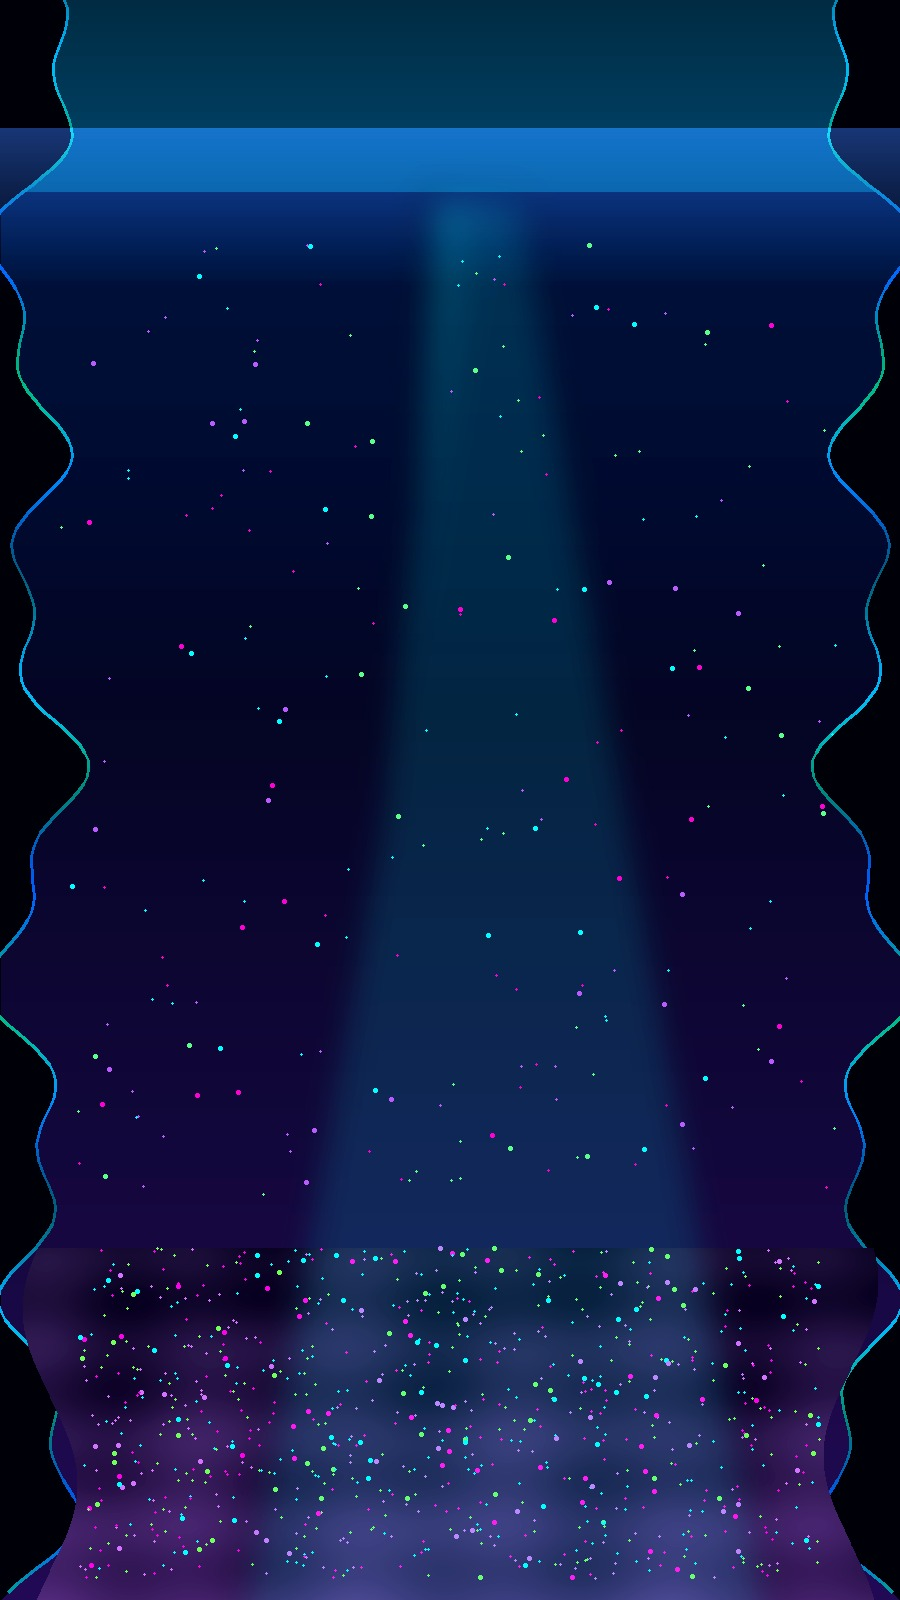
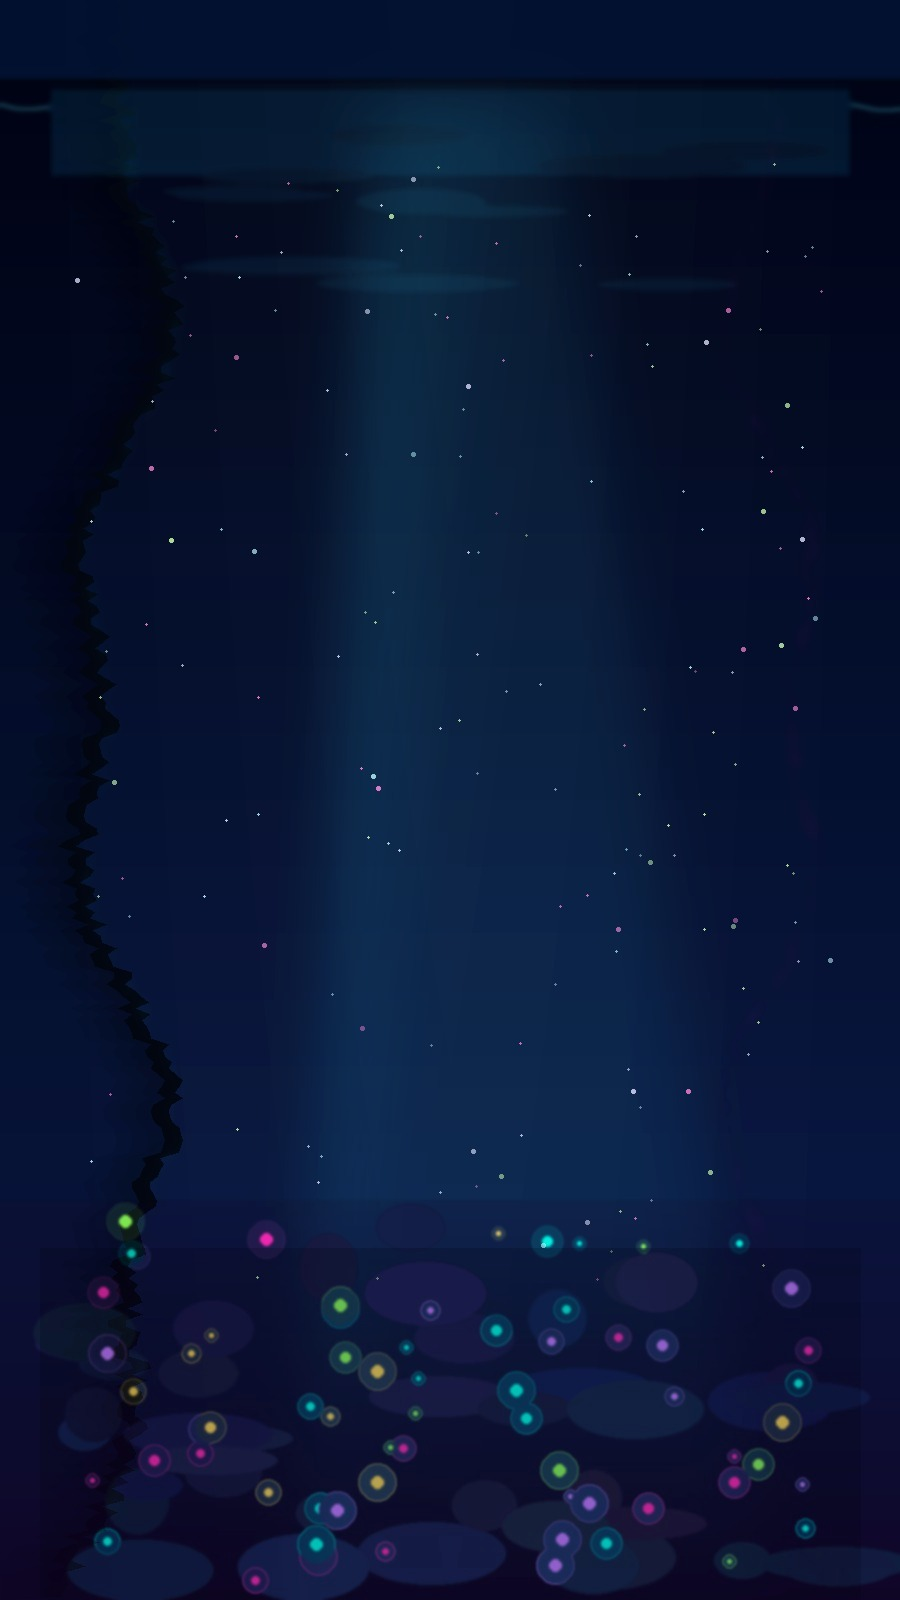
v29 neon-bio LIVE v2: species PNG scale, painterly bed, dropdown in 375, Divide HUD
Fix acceptance blockers: per-species neon sprites at game scale (sp.num→PNG),
skip cheap shore/bubbles for neon, rebuild neon_pond_bg cavern/rays/bed,
Pond style fully inside 375 viewport, Divide/Energy bottom-left like classic.

diff --git a/.04-Src/js/theme_neon_draw.js b/.04-Src/js/theme_neon_draw.js
@@ -1,4 +1,4 @@
-/* theme_neon_draw.js — neon-bio organisms: bright contour + species PNG. ≤500L */
+/* theme_neon_draw.js — neon-bio organisms: species PNG + contour glow. ≤500L */
 (function (w) {
   "use strict";
   var CACHE = {};
@@ -22,10 +22,12 @@
     if (!o || !o.sp) return null;
     if (typeof o.sp.i === "number") return o.sp.i;
     if (typeof o.sp.idx === "number") return o.sp.idx;
+    /* species PNG files are 000-based array index; sp.num is 1-based */
+    if (typeof o.sp.num === "number") return Math.max(0, o.sp.num - 1);
     try {
       if (typeof SPECIES_DB !== "undefined" && o.sp.name) {
         for (var i = 0; i < SPECIES_DB.length; i++) {
-          if (SPECIES_DB[i] && SPECIES_DB[i].name === o.sp.name) return (SPECIES_DB[i].i != null ? SPECIES_DB[i].i : i);
+          if (SPECIES_DB[i] && SPECIES_DB[i].name === o.sp.name) return i;
         }
       }
     } catch (e2) {}
@@ -46,72 +48,72 @@
     } catch (e3) {}
     return null;
   }
+  function neonDrawSz(sz) {
+    /* Readable game scale (cilia/nucleus visible) without half-screen giants */
+    if (w.demoMode) return Math.max(18, Math.min(34, (sz || 4) * 5));
+    return Math.max(5.5, Math.min(26, (sz || 4) * 2.6));
+  }
   function bake(shape, color, px) {
-    var key = shape + "|" + color + "|" + px + "|v3";
+    var key = shape + "|" + color + "|" + px + "|v4";
     if (CACHE[key]) return CACHE[key];
     var c = document.createElement("canvas");
-    c.width = c.height = px;
+    c.width = px; c.height = px;
     var g = c.getContext("2d");
-    var cx = px / 2, cy = px / 2, s = px * 0.34;
-    function strokeContour(drawFn, w0) {
+    var cx = px / 2, cy = px / 2, s = px * 0.28;
+    function faintFill(pathFn) {
       g.save();
-      g.shadowColor = color; g.shadowBlur = 8; g.globalAlpha = 0.65;
-      g.strokeStyle = color; g.lineWidth = (w0 || 2) + 2.4;
-      g.beginPath(); drawFn(); g.stroke();
-      g.shadowBlur = 4; g.globalAlpha = 1;
-      g.strokeStyle = color; g.lineWidth = (w0 || 2) + 0.6;
-      g.beginPath(); drawFn(); g.stroke();
-      g.shadowColor = "#fff"; g.shadowBlur = 4; g.globalAlpha = 0.95;
-      g.strokeStyle = "#fff"; g.lineWidth = Math.max(1.2, (w0 || 2) * 0.55);
-      g.beginPath(); drawFn(); g.stroke();
+      g.globalAlpha = 0.38;
+      g.fillStyle = color;
+      g.beginPath(); pathFn(); g.fill();
       g.restore();
     }
-    function faintFill(drawFn) {
-      g.save(); g.globalAlpha = 0.32; g.fillStyle = color;
-      g.shadowColor = color; g.shadowBlur = 12;
-      g.beginPath(); drawFn(); g.fill(); g.restore();
+    function strokeContour(pathFn, lw) {
+      g.save();
+      g.strokeStyle = color; g.shadowColor = color; g.shadowBlur = Math.max(6, px * 0.08);
+      g.lineWidth = lw || 2.2; g.lineJoin = "round"; g.lineCap = "round";
+      g.beginPath(); pathFn(); g.stroke();
+      g.shadowBlur = 0; g.strokeStyle = "#fff"; g.globalAlpha = 0.85; g.lineWidth = Math.max(1, (lw || 2.2) * 0.45);
+      g.beginPath(); pathFn(); g.stroke();
+      g.restore();
     }
-    if (shape === "rod" || shape === "filament" || shape === "clubrod" || shape === "trichormus" || shape === "rodtococcus") {
-      var rw = s * (shape === "filament" ? 0.2 : 0.32), rh = s * 1.15;
-      var path = function () { g.ellipse(cx, cy, rw, rh, 0, 0, Math.PI * 2); };
-      faintFill(path); strokeContour(path, 2.4);
-    } else if (shape === "spiral" || shape === "trypanosoma" || shape === "comma" || shape === "apicomplexa") {
-      var pathS = function () {
-        var n = shape === "comma" ? 28 : 60, amp = shape === "comma" ? 0.55 : 1;
-        for (var i = 0; i < n; i++) {
-          var t = i / 9, rr = 3 + i * 1.05 * amp;
-          var x = cx + Math.cos(t) * rr, y = cy + Math.sin(t) * rr * 0.85;
-          if (i === 0) g.moveTo(x, y); else g.lineTo(x, y);
-        }
-      };
-      strokeContour(pathS, 2.6);
-    } else if (shape === "colony" || shape === "star" || shape === "volvox") {
-      var n = shape === "star" ? 5 : 7;
-      for (var i = 0; i < n; i++) {
-        var ang = (i / n) * Math.PI * 2;
-        var x = cx + Math.cos(ang) * s * 0.55, y = cy + Math.sin(ang) * s * 0.55;
-        (function (xx, yy) {
-          var p = function () { g.arc(xx, yy, s * 0.2, 0, Math.PI * 2); };
-          faintFill(p); strokeContour(p, 1.7);
-        })(x, y);
+    function nucleus() {
+      g.save(); g.fillStyle = "#fff"; g.globalAlpha = 0.92; g.shadowBlur = 0;
+      g.beginPath(); g.arc(cx - s * 0.18, cy - s * 0.08, s * 0.11, 0, Math.PI * 2); g.fill();
+      g.beginPath(); g.arc(cx + s * 0.22, cy + s * 0.14, s * 0.08, 0, Math.PI * 2); g.fill();
+      g.restore();
+    }
+    function cilia(rx, ry, n) {
+      g.save(); g.strokeStyle = color; g.globalAlpha = 0.9; g.lineWidth = Math.max(1, px * 0.012);
+      g.shadowColor = color; g.shadowBlur = 4;
+      for (var a = 0; a < Math.PI * 2; a += (Math.PI * 2) / n) {
+        g.beginPath();
+        g.moveTo(cx + Math.cos(a) * rx, cy + Math.sin(a) * ry);
+        g.lineTo(cx + Math.cos(a) * rx * 1.38, cy + Math.sin(a) * ry * 1.38);
+        g.stroke();
       }
-      var pc = function () { g.arc(cx, cy, s * 0.26, 0, Math.PI * 2); };
-      faintFill(pc); strokeContour(pc, 2.1);
-    } else if (shape === "slipper" || shape === "hypotrich" || shape === "oval" || shape === "bell" || shape === "rotifer" || shape === "testate" || shape === "testate2" || shape === "flatworm") {
-      var rx = s * (shape === "slipper" || shape === "hypotrich" ? 1.05 : 0.85);
-      var ry = s * (shape === "slipper" || shape === "hypotrich" ? 0.45 : 0.65);
-      var po = function () { g.ellipse(cx, cy, rx, ry, 0, 0, Math.PI * 2); };
-      faintFill(po); strokeContour(po, 2.3);
-      if (shape === "slipper" || shape === "hypotrich" || shape === "rotifer") {
-        g.save(); g.strokeStyle = color; g.globalAlpha = 0.9; g.lineWidth = 1.4; g.shadowColor = color; g.shadowBlur = 6;
-        for (var a = -0.7; a <= 0.7; a += 0.2) {
-          g.beginPath();
-          g.moveTo(cx + rx * 0.85, cy + Math.sin(a) * ry);
-          g.lineTo(cx + rx * 1.35, cy + Math.sin(a) * ry * 1.35);
-          g.stroke();
-        }
-        g.restore();
+      g.restore();
+    }
+    if (shape === "rod" || shape === "bacillus" || shape === "filament" || shape === "clubrod" || shape === "trichormus") {
+      var rr = function () { g.ellipse(cx, cy, s * 1.15, s * 0.42, 0, 0, Math.PI * 2); };
+      faintFill(rr); strokeContour(rr, 2.2); nucleus();
+      g.save(); g.strokeStyle = color; g.globalAlpha = 0.85; g.lineWidth = 1.3; g.shadowColor = color; g.shadowBlur = 4;
+      for (var i = 0; i < 8; i++) {
+        var yy = cy - s * 0.35 + (i / 7) * s * 0.7;
+        g.beginPath(); g.moveTo(cx - s * 1.15, yy); g.lineTo(cx - s * 1.45, yy); g.stroke();
+        g.beginPath(); g.moveTo(cx + s * 1.15, yy); g.lineTo(cx + s * 1.45, yy); g.stroke();
       }
+      g.restore();
+    } else if (shape === "spiral" || shape === "spirillum" || shape === "comma" || shape === "vibrio") {
+      g.save(); g.strokeStyle = color; g.shadowColor = color; g.shadowBlur = 8; g.lineWidth = 3.2; g.lineCap = "round";
+      g.beginPath();
+      for (var t = 0; t <= 1.001; t += 0.02) {
+        var xx = cx + (t - 0.5) * s * 2.2;
+        var yy = cy + Math.sin(t * Math.PI * 3) * s * 0.45;
+        if (t === 0) g.moveTo(xx, yy); else g.lineTo(xx, yy);
+      }
+      g.stroke(); g.restore();
+      faintFill(function () { g.ellipse(cx, cy, s * 0.9, s * 0.35, 0, 0, Math.PI * 2); });
+      nucleus();
     } else if (shape === "phage") {
       var ph = function () { g.ellipse(cx, cy - s * 0.35, s * 0.45, s * 0.35, 0, 0, Math.PI * 2); };
       faintFill(ph); strokeContour(ph, 2.2);
@@ -121,37 +123,52 @@
     } else if (shape === "diplococci") {
       var p1 = function () { g.arc(cx - s * 0.4, cy, s * 0.4, 0, Math.PI * 2); };
       var p2 = function () { g.arc(cx + s * 0.4, cy, s * 0.4, 0, Math.PI * 2); };
-      faintFill(p1); strokeContour(p1, 2.1); faintFill(p2); strokeContour(p2, 2.1);
+      faintFill(p1); strokeContour(p1, 2.1); faintFill(p2); strokeContour(p2, 2.1); nucleus();
     } else {
-      var pc0 = function () { g.arc(cx, cy, s * 0.7, 0, Math.PI * 2); };
-      faintFill(pc0); strokeContour(pc0, 2.5);
-      g.save(); g.strokeStyle = color; g.globalAlpha = 0.85; g.lineWidth = 1.4; g.shadowColor = color; g.shadowBlur = 5;
-      for (var a2 = 0; a2 < Math.PI * 2; a2 += Math.PI / 10) {
-        g.beginPath();
-        g.moveTo(cx + Math.cos(a2) * s * 0.72, cy + Math.sin(a2) * s * 0.72);
-        g.lineTo(cx + Math.cos(a2) * s * 1.08, cy + Math.sin(a2) * s * 1.08);
-        g.stroke();
-      }
-      g.fillStyle = "#fff"; g.globalAlpha = 0.95; g.shadowBlur = 0;
-      g.beginPath(); g.arc(cx - s * 0.18, cy - s * 0.1, s * 0.09, 0, Math.PI * 2); g.fill();
-      g.beginPath(); g.arc(cx + s * 0.2, cy + s * 0.12, s * 0.08, 0, Math.PI * 2); g.fill();
-      g.restore();
+      var pc0 = function () { g.arc(cx, cy, s * 0.72, 0, Math.PI * 2); };
+      faintFill(pc0); strokeContour(pc0, 2.5); cilia(s * 0.74, s * 0.74, 16); nucleus();
     }
     CACHE[key] = c;
     if (Object.keys(CACHE).length > 64) { var k0 = Object.keys(CACHE)[0]; delete CACHE[k0]; }
     return c;
   }
   function drawNeonCell(c, o, sz) {
-    var ssz = sz || 4;
-    var scale = Math.max(ssz * 3.6, 7);
+    var drawSz = neonDrawSz(sz);
     var shape = shapeOf(o);
     var color = colOf(o);
-    var px = Math.max(48, Math.min(128, Math.round(ssz * 18)));
+    var idx = spIdx(o);
+    var sp = loadSp(idx);
+    if (sp && (sp.naturalWidth || sp.width) > 1) {
+      var iw = sp.naturalWidth || sp.width;
+      var ih = sp.naturalHeight || sp.height;
+      var aspect = iw / Math.max(1, ih);
+      var dw, dh;
+      if (aspect >= 1) { dw = drawSz; dh = drawSz / aspect; }
+      else { dh = drawSz; dw = drawSz * aspect; }
+      c.save();
+      c.globalCompositeOperation = "source-over";
+      c.globalAlpha = 1;
+      c.shadowColor = color;
+      c.shadowBlur = Math.max(4, drawSz * 0.55);
+      c.drawImage(sp, -dw / 2, -dh / 2, dw, dh);
+      c.shadowBlur = 0;
+      /* soft translucent tint so fill reads neon */
+      c.globalAlpha = 0.22;
+      c.fillStyle = color;
+      c.beginPath();
+      c.ellipse(0, 0, dw * 0.42, dh * 0.42, 0, 0, Math.PI * 2);
+      c.fill();
+      c.restore();
+      return;
+    }
+    var px = Math.max(48, Math.min(128, Math.round(drawSz * 10)));
     var spr = bake(shape, color, px);
     c.save();
     c.globalCompositeOperation = "source-over";
     c.globalAlpha = 1;
-    c.drawImage(spr, -scale, -scale, scale * 2, scale * 2);
+    c.shadowColor = color;
+    c.shadowBlur = Math.max(3, drawSz * 0.4);
+    c.drawImage(spr, -drawSz, -drawSz, drawSz * 2, drawSz * 2);
     c.restore();
   }
   var SPRITE_BASE = "assets/themes/neon-bio/sprites/";

diff --git a/.04-Src/js/theme_engine.js b/.04-Src/js/theme_engine.js
@@ -18,7 +18,7 @@
   function applyVars(el, vars) { if (!el || !vars) return; Object.keys(vars).forEach(function (k) { el.style.setProperty(k, vars[k]); }); }
   function syncShader(id) { var th = getTheme(id) || {}; w.__igsThemePondShader = th.shader || null; w.__igsThemePondId = id; var _dark={'neon-bio':0.2,'cyberpunk-scanner':0.28,'phase-contrast':0.55,'engraving':0.5,'haeckel-watercolor':0.75,'glass-lab':0.9,'classic':null}; w.__igsThemeDayLight=(_dark[id]!=null?_dark[id]:null); if (typeof w.igsThemeApplyWebGL === 'function') try { w.igsThemeApplyWebGL(th.shader || {}); } catch (e) {} }
   function applyThemeBestiary(id) { id = valid(id); var prev = lsGet(LS_B) || 'classic'; lsSet(LS_B, id); var wiki = document.getElementById('wikiO'); if (wiki) { wiki.setAttribute('data-theme-bestiary', id); applyVars(wiki, (getTheme(id) || {}).cssVars); } ['themeSelBestiary','themeSelBestiarySet'].forEach(function(sid){ var sel=document.getElementById(sid); if(sel&&sel.value!==id) sel.value=id; }); if (prev !== id && w.igsThemeAnalytics && w.igsThemeAnalytics.track) w.igsThemeAnalytics.track('theme_change', { screen: 'bestiary', from: prev, to: id }); w.__igsThemeBestiary = id; try{ if(typeof w.igsThemeWikiEnhance==='function') w.igsThemeWikiEnhance(); }catch(e){} return id; }
-  function applyThemePond(id) { id = valid(id); var prev = lsGet(LS_P) || 'classic'; lsSet(LS_P, id); document.documentElement.setAttribute('data-theme-pond', id); applyVars(document.documentElement, (getTheme(id) || {}).cssVars); if (document.body) document.body.setAttribute('data-theme-pond', id); syncShader(id); ['themeSelPond','themeSelPondSet'].forEach(function(sid){ var sel=document.getElementById(sid); if(sel&&sel.value!==id) sel.value=id; }); if (prev !== id && w.igsThemeAnalytics && w.igsThemeAnalytics.track) w.igsThemeAnalytics.track('theme_change', { screen: 'pond', from: prev, to: id }); w.__igsThemePond = id; try{ if(id==='neon-bio'){ if(typeof tZoom==='number'){ tZoom=Math.max(tZoom,5.5); } if(typeof zoom==='number'){ zoom=Math.max(zoom,5.5); } if(typeof settings!=='undefined'&&settings){ settings.renderMode='swiss'; window._swissStrict=true; } if(typeof cam!=='undefined'&&cam&&typeof PD==='number'){ if(cam.y<PD*0.28) cam.y=PD*0.42; } } }catch(_z){} return id; }
+  function applyThemePond(id) { id = valid(id); var prev = lsGet(LS_P) || 'classic'; lsSet(LS_P, id); document.documentElement.setAttribute('data-theme-pond', id); applyVars(document.documentElement, (getTheme(id) || {}).cssVars); if (document.body) document.body.setAttribute('data-theme-pond', id); syncShader(id); ['themeSelPond','themeSelPondSet'].forEach(function(sid){ var sel=document.getElementById(sid); if(sel&&sel.value!==id) sel.value=id; }); if (prev !== id && w.igsThemeAnalytics && w.igsThemeAnalytics.track) w.igsThemeAnalytics.track('theme_change', { screen: 'pond', from: prev, to: id }); w.__igsThemePond = id; try{ if(id==='neon-bio'){ if(typeof settings!=='undefined'&&settings){ settings.renderMode='swiss'; window._swissStrict=true; } if(typeof cam!=='undefined'&&cam&&typeof PD==='number'){ if(cam.y<PD*0.28) cam.y=PD*0.42; } if(typeof tZoom==='number'&&tZoom>3.2){ tZoom=2.4; } if(typeof zoom==='number'&&zoom>3.2){ zoom=2.4; } } }catch(_z){} return id; }
   function currentBestiary() { return valid(lsGet(LS_B) || pickAb('bestiary')); }
   function currentPond() { return valid(lsGet(LS_P) || pickAb('pond')); }
   function themeLabel(tid) { var th = getTheme(tid) || {}; var lab = (typeof tt === 'function' && th.labelKey) ? tt(th.labelKey) : ''; if (!lab || lab === th.labelKey) return LABELS[tid] || tid; return lab; }

diff --git a/.04-Src/js/theme_visuals.js b/.04-Src/js/theme_visuals.js
@@ -101,7 +101,6 @@
     themedSun.__igsThemeWrap = true;
     renderSunOverlay = themedSun;
   }
-
   function wrapPads() {
     if (typeof drawNaturalLilypads !== "function" || drawNaturalLilypads.__igsThemeWrap) return;
     var orig = drawNaturalLilypads;
@@ -213,7 +212,7 @@
     var W = cv.width, H = cv.height;
     ctx.save();
     if (id === "neon-bio") {
-      /* bed via wrapWater; postFX rays+vignette */
+      /* bed via wrapWater */
       var cx = W * 0.5, topY = H * 0.14, bot = H * 0.98;
       ctx.globalCompositeOperation = "screen";
       var ray = ctx.createLinearGradient(cx, topY, cx, bot);
@@ -228,7 +227,7 @@
       ctx.globalCompositeOperation = "source-over";
       var vig = ctx.createRadialGradient(W / 2, H * 0.55, H * 0.18, W / 2, H * 0.55, H * 0.92);
       vig.addColorStop(0, "rgba(0,0,0,0)");
-      vig.addColorStop(1, "rgba(0,0,0,0.55)");
+      vig.addColorStop(1, "rgba(0,0,0,0.38)");
       ctx.fillStyle = vig; ctx.fillRect(0, 0, W, H);
     } else if (id === "phase-contrast") {
       try { drawThemePondBed("phase-contrast","assets/themes/phase-contrast/phase_pond_bg.jpg",0.40); } catch (eBed) {}
@@ -357,18 +356,6 @@
           ctx.save(); ctx.setTransform(1,0,0,1,0,0);
           ctx.fillStyle = "#000014"; ctx.fillRect(0,0,cv.width,cv.height); ctx.restore();
         }
-        ctx.save();
-        var sh = ctx.createLinearGradient(0, -2, 0, 40);
-        sh.addColorStop(0, "rgba(0,255,255,0.28)");
-        sh.addColorStop(1, "rgba(0,40,80,0)");
-        ctx.fillStyle = sh; ctx.fillRect(vL, -6, vR-vL, 48);
-        ctx.strokeStyle = "rgba(120,255,255,0.6)"; ctx.lineWidth = 2;
-        ctx.beginPath();
-        for (var sx=vL; sx<=vR; sx+=8) {
-          var sy = Math.sin(sx*0.04+(typeof gt==="number"?gt:0)*1.2)*2.2;
-          if (sx===vL) ctx.moveTo(sx, sy); else ctx.lineTo(sx, sy);
-        }
-        ctx.stroke(); ctx.restore();
         return;
       }
       return orig.apply(this, arguments);
@@ -480,7 +467,7 @@
   }
   function install() {
     ensureNeonDraw();
-    wrapSky(); wrapSun(); wrapPads(); wrapSwiss(); wrapWater(); wrapBuildWiki();
+    wrapSky(); wrapSun(); wrapPads(); wrapSwiss(); wrapWater(); wrapShoreBubbles(); wrapBuildWiki();
     var id = tid();
     var dark = {"neon-bio":0.18,"cyberpunk-scanner":0.22,"phase-contrast":0.48,"engraving":0.55,"haeckel-watercolor":0.75,"glass-lab":0.9};
     if (dark[id] != null) w.__igsThemeDayLight = dark[id];
@@ -492,6 +479,19 @@
       } catch (eSw) {}
     }
   }
+
+  function wrapShoreBubbles() {
+    function skip(get, set) {
+      var fn = get(); if (typeof fn !== "function" || fn.__igsThemeWrap) return;
+      var orig = fn;
+      var wrapped = function () { if (tid() === "neon-bio") return; return orig.apply(this, arguments); };
+      wrapped.__igsThemeWrap = true; set(wrapped);
+    }
+    skip(function () { return typeof renderShore === "function" ? renderShore : null; }, function (f) { renderShore = f; });
+    skip(function () { return typeof renderBubbles === "function" ? renderBubbles : null; }, function (f) { renderBubbles = f; });
+    skip(function () { return typeof renderSediment === "function" ? renderSediment : null; }, function (f) { renderSediment = f; });
+  }
+
   w.igsThemeVisuals = { install: install, postFX: postFX, enhanceWiki: enhanceWiki };
   if (document.readyState === "loading") document.addEventListener("DOMContentLoaded", install);
   else install();

diff --git a/style-themes-v29.css b/style-themes-v29.css
@@ -12,11 +12,12 @@
 }
 body.in-menu #themePondBar{display:none!important}
 @media (max-width:500px){
-  /* top-right compact; must clear #hud (max ~200px) on 375 */
-  #themePondBar{right:8px;left:auto!important;top:max(6px,env(safe-area-inset-top));max-width:110px;padding:3px 5px}
+  /* fully inside 375: kill .theme-sel-wrap min-width:120 that blew select to 120px */
+  #themePondBar{right:18px;left:auto!important;top:max(6px,env(safe-area-inset-top));width:82px;max-width:82px;padding:3px 4px;box-sizing:border-box;overflow:hidden}
+  #themePondBar .theme-sel-wrap{min-width:0!important;width:100%!important;max-width:100%!important}
   #themePondBar .theme-sel-label{font-size:9px;line-height:1.1}
-  #themePondBar select{min-height:36px;font-size:11px;padding:3px 4px;max-width:100%}
-  body[data-theme-pond] #hud, body[data-theme-pond] #hud.p{max-width:min(200px,52vw)!important}
+  #themePondBar select{display:block;width:100%!important;min-width:0!important;min-height:34px;font-size:10px;padding:2px 4px;max-width:100%!important;box-sizing:border-box;box-shadow:none!important}
+  body[data-theme-pond] #hud, body[data-theme-pond] #hud.p{max-width:min(185px,48vw)!important}
 }
 #themeBestiaryBar{margin:0 0 8px 0;display:flex;justify-content:flex-end}
 
@@ -232,5 +233,32 @@ body[data-theme-pond="neon-bio"] #startBtn{
 #wikiO.ov.show[data-theme-bestiary="neon-bio"] .btn,
 #wikiO.ov.show[data-theme-bestiary="neon-bio"] #wikiClose{
   border:1px solid #ff00aa!important;box-shadow:0 0 12px #ff00aa55;background:#050012!important;color:#e8fffe!important;
+}
+
+@media (max-width:500px){
+  body[data-theme-pond="neon-bio"] #themePondBar{
+    right:18px!important;width:82px!important;max-width:82px!important;
+    box-shadow:inset 0 0 8px #00ffff44!important;
+  }
+  body[data-theme-pond="neon-bio"] #themePondBar .theme-sel-wrap{min-width:0!important;width:100%!important}
+  body[data-theme-pond="neon-bio"] #themePondBar select{
+    width:100%!important;max-width:100%!important;min-width:0!important;
+    box-shadow:inset 0 0 6px #ff00aa55!important;
+  }
+  /* Divide/Energy: bottom-left above actBar like desktop classic — not mid-scene */
+  body[data-theme-pond="neon-bio"] #hDivReady{
+    top:auto!important;bottom:calc(76px + env(safe-area-inset-bottom,0px))!important;
+    left:max(8px,env(safe-area-inset-left))!important;right:auto!important;
+    max-width:min(210px,62vw)!important;width:auto!important;
+    background:rgba(0,0,12,.78)!important;padding:5px 8px!important;border-radius:8px!important;
+    border:1px solid #00ffff66!important;box-shadow:0 0 10px #00ffff33!important;
+    font-size:11px!important;z-index:20!important;
+  }
+  body[data-theme-pond="neon-bio"] #divReason{
+    top:auto!important;bottom:calc(108px + env(safe-area-inset-bottom,0px))!important;
+    left:50%!important;transform:translateX(-50%)!important;
+    max-width:min(280px,88vw)!important;font-size:11px!important;
+    background:rgba(0,0,12,.7);padding:4px 8px;border-radius:8px;
+  }
 }
 

diff --git a/index.html b/index.html
@@ -26,7 +26,7 @@
   <link rel="stylesheet" href="04-Src/fonts.generated.css?v=1"> <!-- GEN:A1 @font-face из реестра -->
 
 <style id="a11y-focus">:focus-visible{outline:2px solid #5ed4a0;outline-offset:2px;}a#apkBtn:focus-visible{outline:2px solid #5ed4a0;outline-offset:3px;}</style>
-<link rel="stylesheet" href="style-themes-v29.css?v=1793789501">
+<link rel="stylesheet" href="style-themes-v29.css?v=1793793200">
 </head>
 <body>
 <canvas id="glCanvas" aria-hidden="true" style="position:absolute;top:0;left:0;z-index:0;pointer-events:none;display:none;"></canvas><canvas id="c"></canvas>
@@ -223,9 +223,9 @@
 <script src="04-Src/js/ui_menus.js?v=1792632100"></script>
 <script src="04-Src/js/ui_food_chain.js?v=1792632100"></script>
 <script src="04-Src/js/theme_analytics.js?v=1793720001"></script>
-<script src="04-Src/js/theme_engine.js?v=1793789501"></script>
-<script src="04-Src/js/theme_neon_draw.js?v=neon7"></script>
-<script src="04-Src/js/theme_visuals.js?v=1793789501"></script>
+<script src="04-Src/js/theme_engine.js?v=1793793200"></script>
+<script src="04-Src/js/theme_neon_draw.js?v=neon9"></script>
+<script src="04-Src/js/theme_visuals.js?v=1793793200"></script>
 <script src="04-Src/js/ui_screens.js?v=1792632100"></script>
 <script src="04-Src/js/main.js?v=1792632100"></script>
 <script src="04-Src/js/global_errors.js?v=1792632100"></script>

diff --git a/01-Architecture/03-Analysis/LEAD-LOG-v29.md b/01-Architecture/03-Analysis/LEAD-LOG-v29.md
@@ -142,3 +142,16 @@
 ## 2026-11-04 neon-bio LIVE pass (box)
 - screen-space neon_pond_bg under water; swiss+neon sprites at o.x/o.y; HUD/menu neon CSS; themePondBar no overlap 375/1400
 - shots /workspace/v29neon/; FPS target ≥ classic; JS ≤500
+
+## 2026-11-04 03:24 IST — neon-bio LIVE v2 (acceptance retry)
+
+Owner rejected prior neon LIVE (~60%): huge identical ovals, Pond style clipped on 375, Divide/Energy mid-scene, cheap wavy tubes/bubbles instead of painterly bed.
+
+Fixes:
+1. Species PNG sprites via `sp.num-1` / array index (was missing → bake-only ovals); `neonDrawSz` ≈ sz*2.6 (readable, not half-screen); zoom boost 5.5 removed.
+2. `#themePondBar` mobile: kill `.theme-sel-wrap{min-width:120}` that forced select to 120px past edge; bar right=18 width=82; select fully in viewport (pink gap ≥18px @375).
+3. `#hDivReady` / `#divReason` neon mobile → bottom-left above actBar (not mid-scene top).
+4. Rebuilt painterly `neon_pond_bg.jpg` (rocky cavern, surface, rays, glowing bed); skip `renderShore`/`renderBubbles`/`renderSediment` for neon; wrapWater = screen-space bed only.
+
+FPS @1400: neon 60 ≥ classic 55; @375: neon 60 ≈ classic 60. JS: neon_draw 177, visuals 500, engine 52. Shots `/workspace/v29neon/*_v2.jpg`. No deploy. Honest eye ~85–88% vs concept 03 (still HUD chrome differs from circular concept icons).
+
